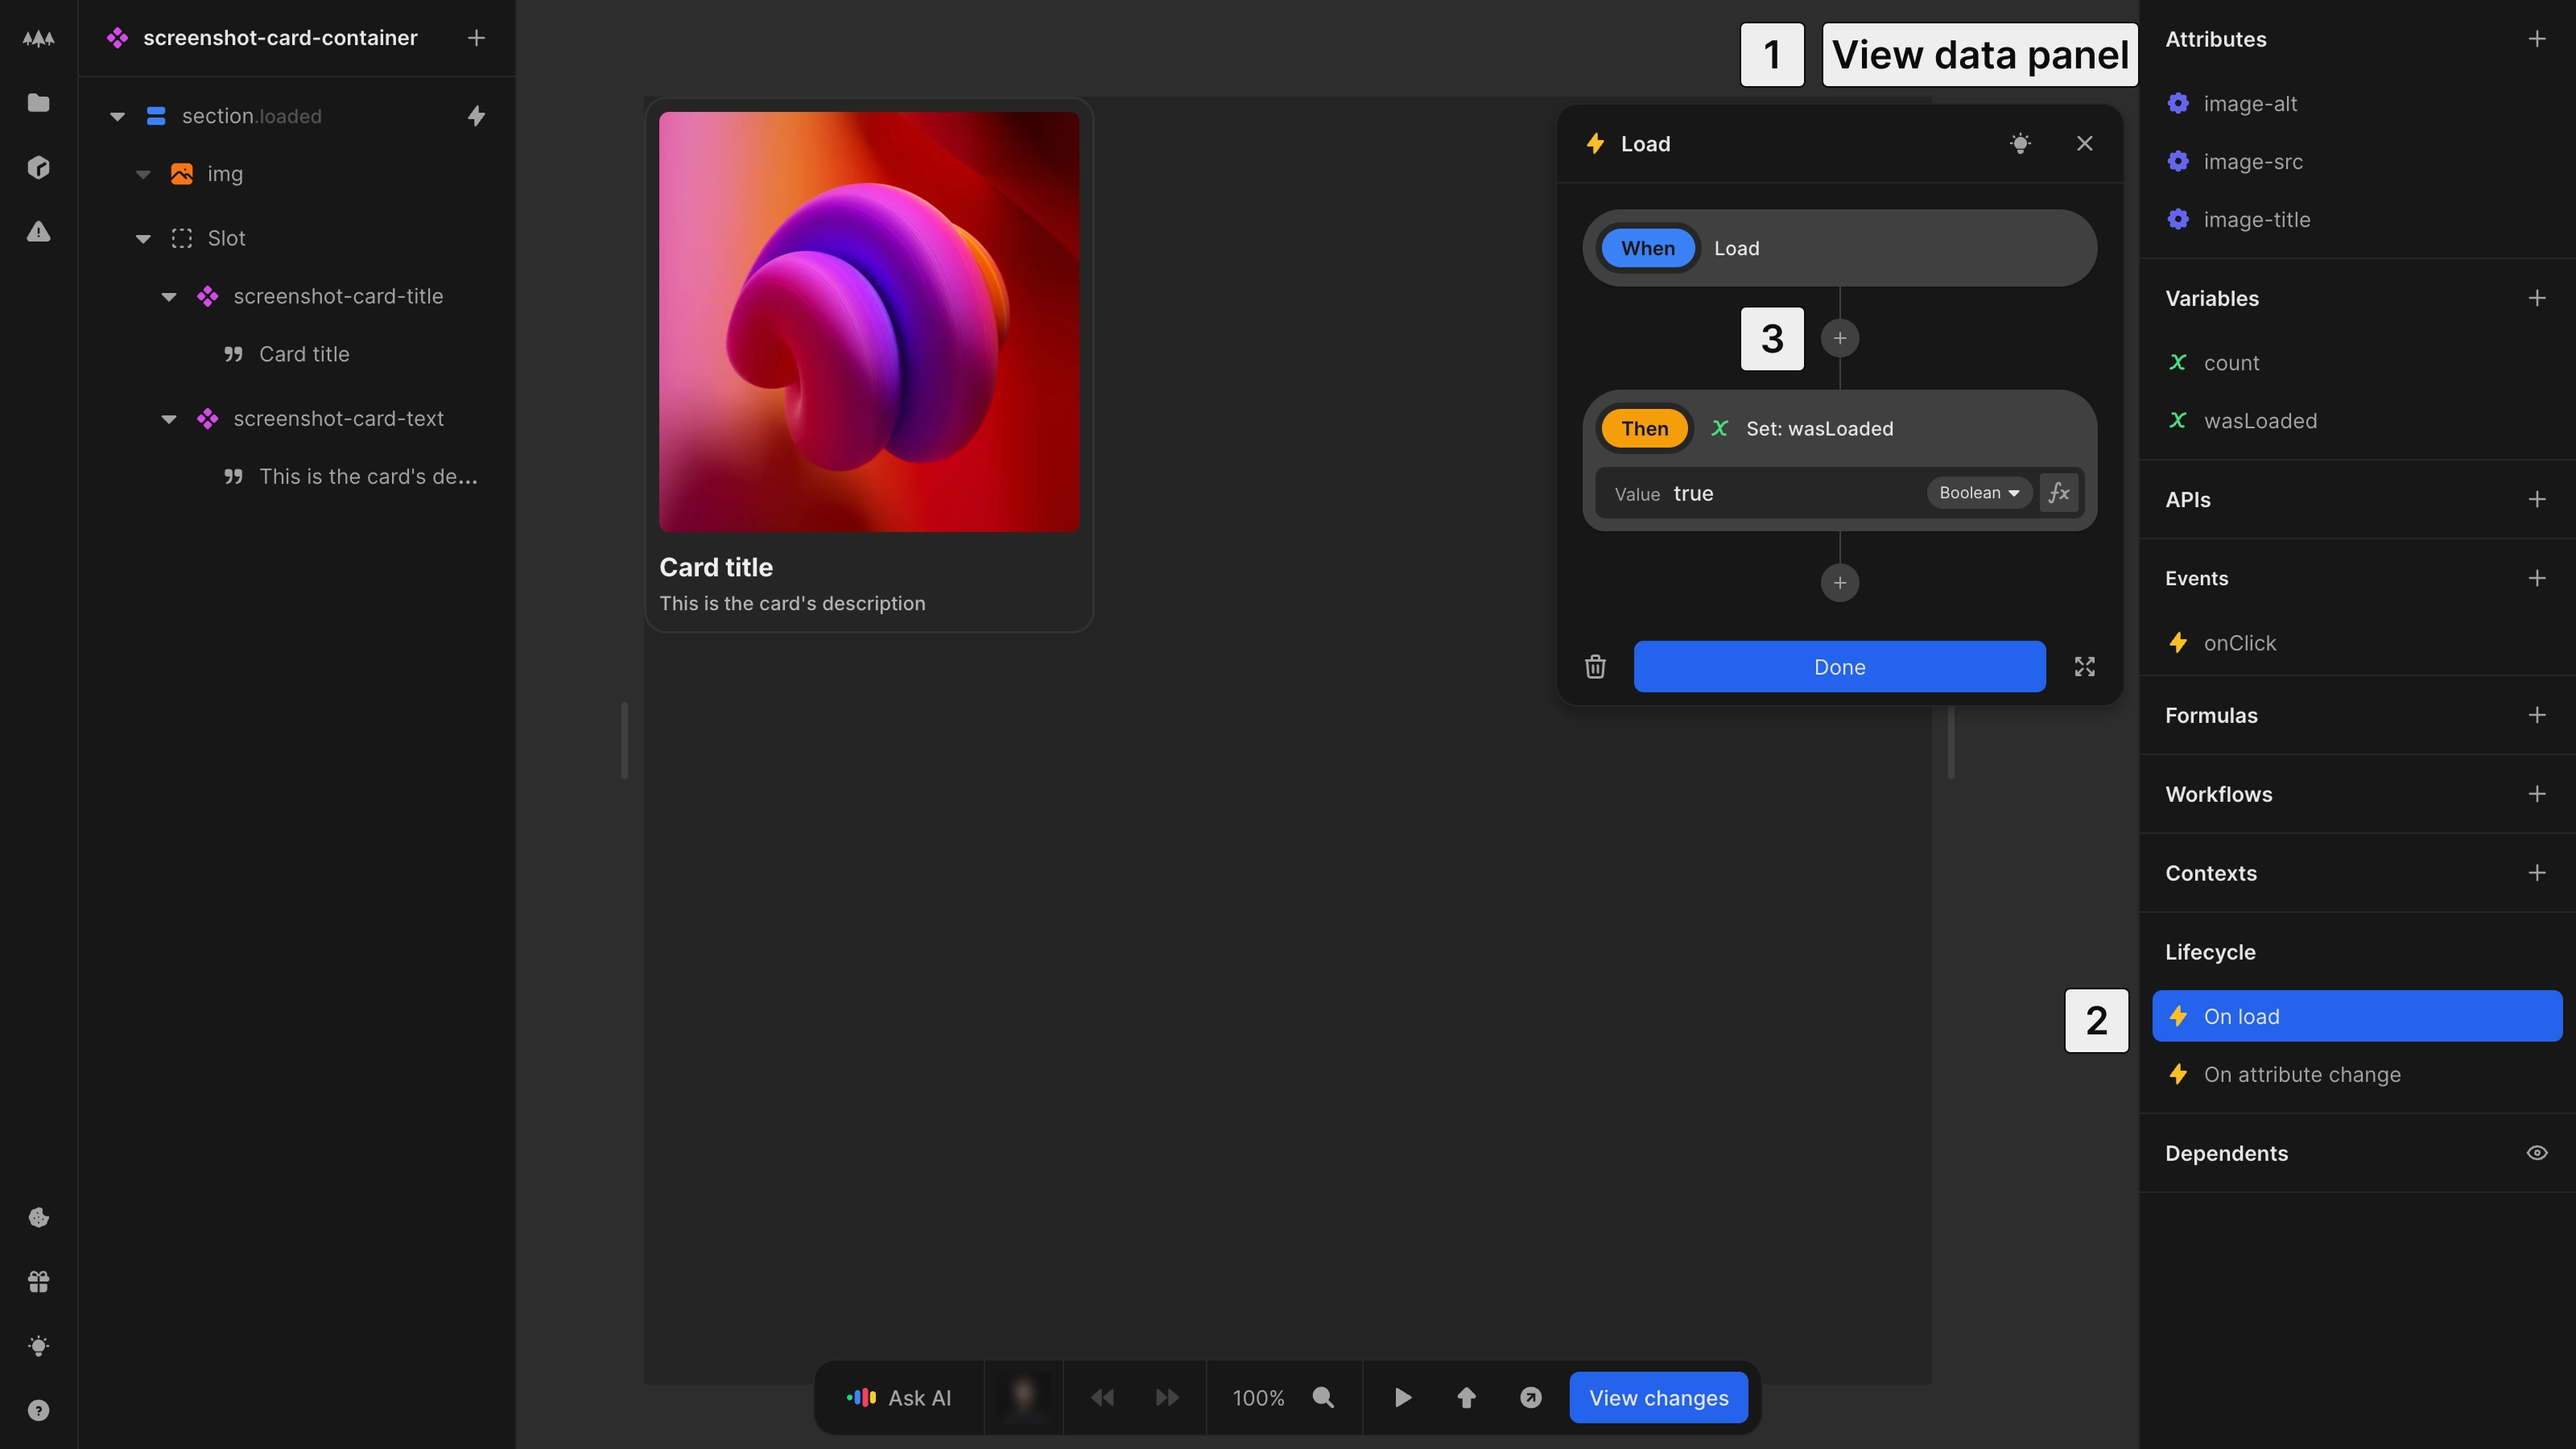
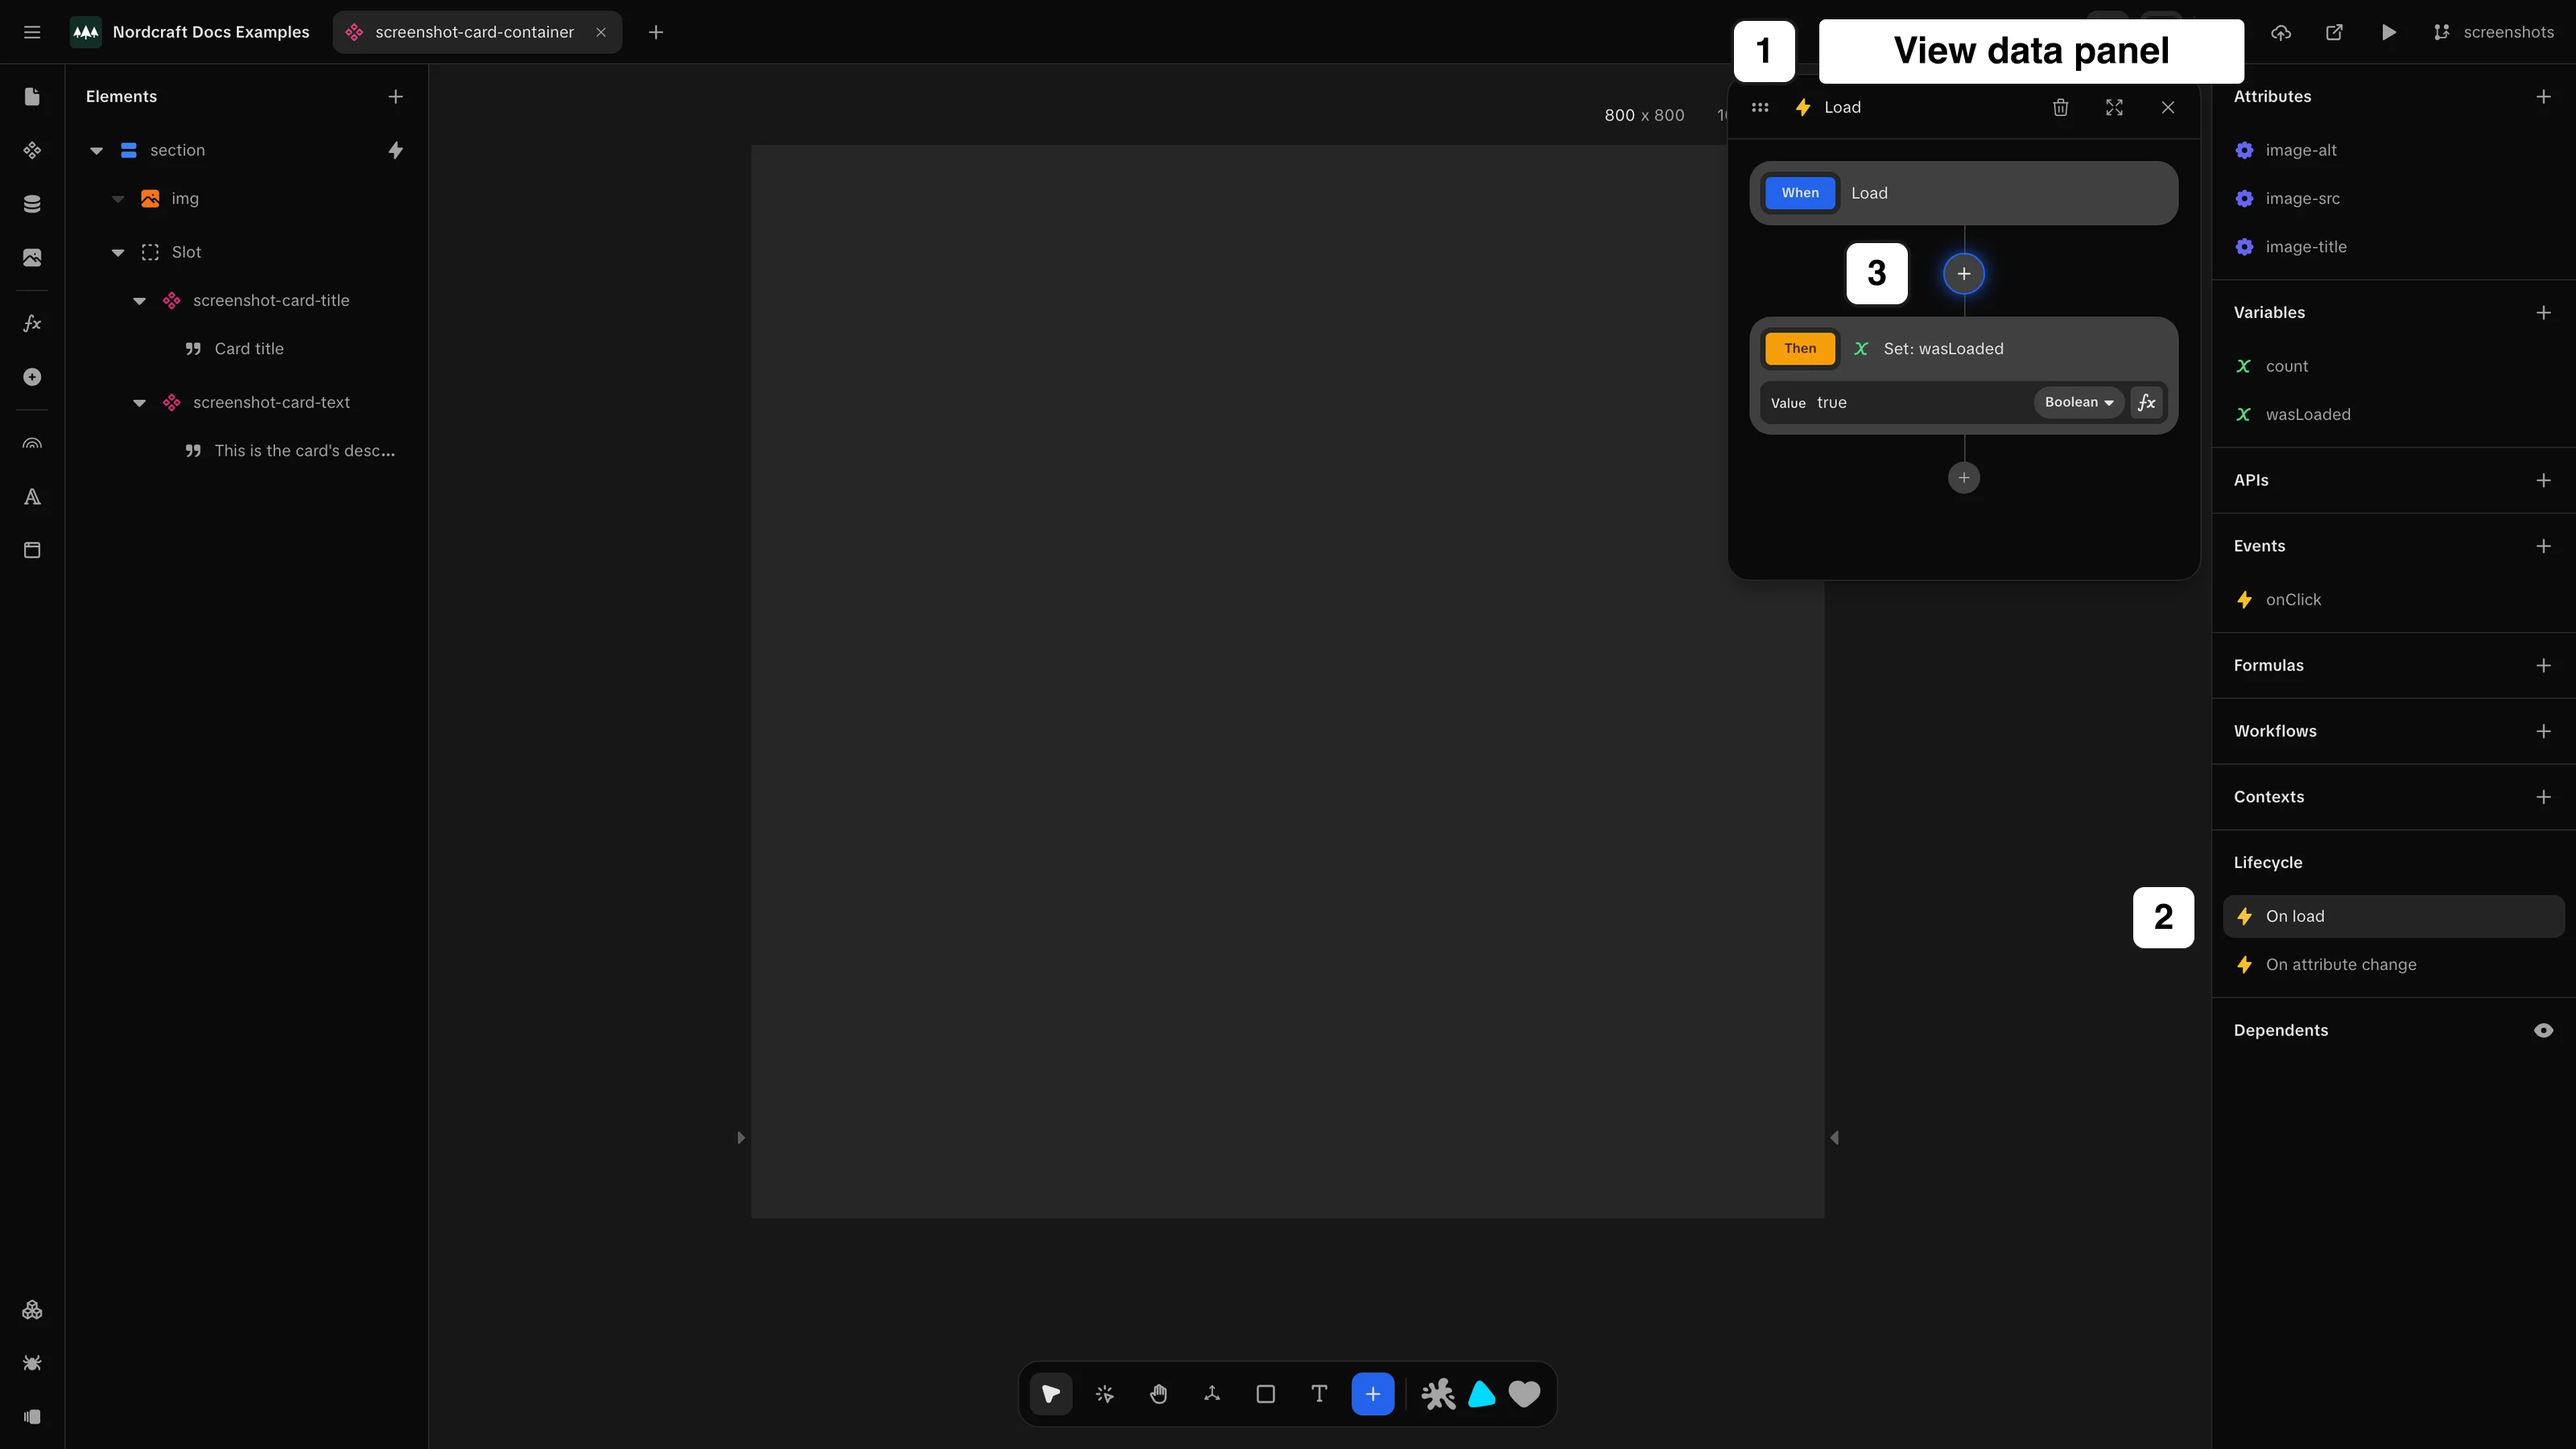
Adjustments

diff --git a/scripts/annotations.test.ts b/scripts/annotations.test.ts
@@ -1,0 +1,174 @@
+import { describe, expect, it } from 'bun:test'
+import {
+  type Annotation,
+  buildSvgOverlay,
+} from './annotations'
+
+describe('scripts/annotations.ts', () => {
+  it('should render an empty SVG when annotations array is empty', () => {
+    const svg = buildSvgOverlay([], 800, 450).toString()
+    expect(svg).toContain('<svg width="800" height="450" viewBox="0 0 800 450"')
+    expect(svg).not.toContain('<rect')
+    expect(svg).not.toContain('<text')
+  })
+
+  it('should render badge annotations with single and multi-character text', () => {
+    const annotations: Annotation[] = [
+      { type: 'badge', x: 100, y: 50, text: '1' },
+      { type: 'badge', x: 200, y: 150, text: '12' },
+    ]
+
+    const svg = buildSvgOverlay(annotations, 800, 450).toString()
+    expect(svg).toContain('<svg width="800" height="450"')
+    expect(svg).toContain('fill="#ffffff" stroke="#1a1a1a"')
+    expect(svg).toContain('>1<')
+    expect(svg).toContain('>12<')
+
+    // Single character badge width is 20, multi-character badge width is 24
+    expect(svg).toContain('width="20"')
+    expect(svg).toContain('width="24"')
+  })
+
+  it('should render selection, box, and highlight annotations with default and custom styling', () => {
+    const annotations: Annotation[] = [
+      {
+        type: 'box',
+        x: 24,
+        y: 84,
+        width: 104,
+        height: 64,
+        rx: 4,
+      },
+      {
+        type: 'highlight',
+        x: 50,
+        y: 100,
+        width: 200,
+        height: 80,
+        stroke: '#ff0000',
+        strokeWidth: 2,
+      },
+      {
+        type: 'selection',
+        x: 10,
+        y: 20,
+        width: 50,
+        height: 30,
+      },
+    ]
+
+    const svg = buildSvgOverlay(annotations, 800, 450).toString()
+    expect(svg).toContain('x="24"')
+    expect(svg).toContain('y="84"')
+    expect(svg).toContain('width="104"')
+    expect(svg).toContain('height="64"')
+    expect(svg).toContain('rx="4"')
+    expect(svg).toContain('fill="none"')
+    expect(svg).toContain('stroke="#ffffff"')
+
+    // Custom highlight stroke and strokeWidth
+    expect(svg).toContain('stroke="#ff0000"')
+    expect(svg).toContain('stroke-width="2"')
+
+    // Selection defaults
+    expect(svg).toContain('x="10"')
+    expect(svg).toContain('y="20"')
+    expect(svg).toContain('width="50"')
+    expect(svg).toContain('height="30"')
+  })
+
+  it('should scale box and highlight annotations proportionally for large resolutions (3200x1800)', () => {
+    const annotations: Annotation[] = [
+      {
+        type: 'box',
+        x: 24,
+        y: 84,
+        width: 104,
+        height: 64,
+      },
+      {
+        type: 'highlight',
+        x: 50,
+        y: 100,
+        width: 200,
+        height: 80,
+        stroke: '#00ff00',
+        strokeWidth: 2,
+      },
+    ]
+
+    const svgLarge = buildSvgOverlay(annotations, 3200, 1800).toString()
+    expect(svgLarge).toContain('x="96"')
+    expect(svgLarge).toContain('y="336"')
+    expect(svgLarge).toContain('width="416"')
+    expect(svgLarge).toContain('height="256"')
+    expect(svgLarge).toContain('stroke="#00ff00"')
+    expect(svgLarge).toContain('stroke-width="8"')
+  })
+
+  it('should render text and label annotations with automatic width calculation', () => {
+    const annotations: Annotation[] = [
+      {
+        type: 'text',
+        x: 24,
+        y: 152,
+        width: 188,
+        height: 20,
+        text: 'Placeholder content for the slot',
+      },
+      {
+        type: 'label',
+        x: 100,
+        y: 200,
+        text: 'Auto width label',
+        backgroundColor: '#000000',
+        color: '#ffffff',
+        fontWeight: 'normal',
+      },
+    ]
+
+    const svg = buildSvgOverlay(annotations, 800, 450).toString()
+    expect(svg).toContain('x="24"')
+    expect(svg).toContain('y="152"')
+    expect(svg).toContain('width="188"')
+    expect(svg).toContain('fill="#ffffff"')
+    expect(svg).toContain('Placeholder content for the slot')
+    expect(svg).toContain('text-anchor="middle"')
+
+    // Label with custom colors and auto-computed width
+    expect(svg).toContain('fill="#000000"')
+    expect(svg).toContain('fill="#ffffff"')
+    expect(svg).toContain('font-weight="normal"')
+    expect(svg).toContain('Auto width label')
+  })
+
+  it('should scale text annotations properly at 3200x1800', () => {
+    const annotations: Annotation[] = [
+      {
+        type: 'text',
+        x: 24,
+        y: 152,
+        width: 188,
+        height: 20,
+        text: 'Scaled text',
+      },
+    ]
+
+    const svgLarge = buildSvgOverlay(annotations, 3200, 1800).toString()
+    expect(svgLarge).toContain('x="96"')
+    expect(svgLarge).toContain('y="608"')
+    expect(svgLarge).toContain('width="752"')
+    expect(svgLarge).toContain('height="80"')
+    expect(svgLarge).toContain('font-size="46"')
+  })
+
+  it('should ignore unrecognized annotation types gracefully', () => {
+    const annotations = [
+      { type: 'unsupported-type', x: 0, y: 0 } as unknown as Annotation,
+    ]
+
+    const svg = buildSvgOverlay(annotations, 800, 450).toString()
+    expect(svg).toContain('<svg')
+    expect(svg).not.toContain('<rect')
+  })
+})

diff --git a/scripts/capture-screenshots.test.ts b/scripts/capture-screenshots.test.ts
@@ -1,87 +1,31 @@
 import { describe, expect, it } from 'bun:test'
-import { type Annotation, buildSvgOverlay } from './capture-screenshots'
+import {
+  defineScreenshot,
+  loadScreenshotTargets,
+  TARGETS,
+} from './capture-screenshots'
 
-describe('buildSvgOverlay', () => {
-  it('should render badge annotations', () => {
-    const annotations: Annotation[] = [
-      { type: 'badge', x: 100, y: 50, text: '1' },
-      { type: 'badge', x: 200, y: 150, text: '12' },
-    ]
-
-    const svg = buildSvgOverlay(annotations, 800, 450).toString()
-    expect(svg).toContain('<svg width="800" height="450"')
-    expect(svg).toContain('fill="#ffffff" stroke="#1a1a1a"')
-    expect(svg).toContain('>1<')
-    expect(svg).toContain('>12<')
+describe('scripts/capture-screenshots.ts', () => {
+  it('should define a screenshot configuration', () => {
+    const config = defineScreenshot({
+      path: '/test/path',
+      description: 'Test target',
+    })
+    expect(config.path).toBe('/test/path')
+    expect(config.description).toBe('Test target')
   })
 
-  it('should render selection/highlight box annotations', () => {
-    const annotations: Annotation[] = [
-      {
-        type: 'box',
-        x: 24,
-        y: 84,
-        width: 104,
-        height: 64,
-        rx: 4,
-      },
-      {
-        type: 'highlight',
-        x: 50,
-        y: 100,
-        width: 200,
-        height: 80,
-        stroke: '#ff0000',
-        strokeWidth: 2,
-      },
-    ]
+  it('should load screenshot targets from docs/', async () => {
+    const targets = await loadScreenshotTargets()
+    expect(targets.length).toBeGreaterThan(0)
 
-    const svg = buildSvgOverlay(annotations, 800, 450).toString()
-    expect(svg).toContain('x="24"')
-    expect(svg).toContain('y="84"')
-    expect(svg).toContain('width="104"')
-    expect(svg).toContain('height="64"')
-    expect(svg).toContain('rx="4"')
-    expect(svg).toContain('fill="none"')
-    expect(svg).toContain('stroke="#ffffff"')
-
-    // Scaled to 3200x1800
-    const svgLarge = buildSvgOverlay(annotations, 3200, 1800).toString()
-    expect(svgLarge).toContain('x="96"')
-    expect(svgLarge).toContain('y="336"')
-    expect(svgLarge).toContain('width="416"')
-    expect(svgLarge).toContain('height="256"')
-    expect(svgLarge).toContain('stroke="#ff0000"')
-    expect(svgLarge).toContain('stroke-width="8"')
+    const bottomBar = targets.find((t) => t.id === 'bottom-bar')
+    expect(bottomBar).toBeDefined()
+    expect(bottomBar?.outputDir).toBe('docs/the-editor/bottom-bar')
+    expect(bottomBar?.name).toBe('bottom-bar')
   })
 
-  it('should render text on white background annotations', () => {
-    const annotations: Annotation[] = [
-      {
-        type: 'text',
-        x: 24,
-        y: 152,
-        width: 188,
-        height: 20,
-        text: 'Placeholder content for the slot',
-      },
-    ]
-
-    const svg = buildSvgOverlay(annotations, 800, 450).toString()
-    expect(svg).toContain('x="24"')
-    expect(svg).toContain('y="152"')
-    expect(svg).toContain('width="188"')
-    expect(svg).toContain('height="20"')
-    expect(svg).toContain('fill="#ffffff"')
-    expect(svg).toContain('Placeholder content for the slot')
-    expect(svg).toContain('text-anchor="middle"')
-
-    // Scaled to 3200x1800
-    const svgLarge = buildSvgOverlay(annotations, 3200, 1800).toString()
-    expect(svgLarge).toContain('x="96"')
-    expect(svgLarge).toContain('y="608"')
-    expect(svgLarge).toContain('width="752"')
-    expect(svgLarge).toContain('height="80"')
-    expect(svgLarge).toContain('font-size="46"')
+  it('should export TARGETS array', () => {
+    expect(Array.isArray(TARGETS)).toBe(true)
   })
 })

diff --git a/scripts/capture-screenshots.ts b/scripts/capture-screenshots.ts
@@ -13,7 +13,7 @@ export interface ScreenshotConfig {
   id?: string
   name?: string
   outputDir?: string
-  path: string
+  path: `/${string}`
   description: string
   setup?: (page: Page) => Promise<void>
   annotations?: Annotation[]
@@ -40,6 +40,13 @@ export async function captureTarget(
   target: ScreenshotTarget,
   baseUrl: string = DEFAULT_BASE_URL,
 ) {
+  if (!target.path || target.path.startsWith('TODO')) {
+    console.log(
+      `\n⚠  Skipping [${target.id}]: path not configured yet (${target.description})`,
+    )
+    return
+  }
+
   console.log(`\n📸 Capturing [${target.id}]: ${target.description}`)
   const page = await browser.newPage({
     viewport: { width: 1920, height: 1080 },
@@ -98,6 +105,16 @@ export async function captureTarget(
 }
 
 async function runDirectTarget(target: ScreenshotTarget) {
+  if (!target.path || target.path.startsWith('TODO')) {
+    console.warn(
+      `\n⚠  Cannot capture [${target.id}]: path is not configured yet.`,
+    )
+    console.warn(
+      `   Please update 'path' in ${target.outputDir}/${target.name}.screenshot.ts`,
+    )
+    return
+  }
+
   console.log(`🚀 Starting direct screenshot capture`)
   console.log(`   Target: ${target.id} (${target.name})`)
   console.log(`   Destination: ${target.outputDir}`)

diff --git a/docs/components/interface-and-lifecycle/add-initialization-logic.screenshot.ts b/docs/components/interface-and-lifecycle/add-initialization-logic.screenshot.ts
@@ -1,0 +1,36 @@
+import { defineScreenshot } from '@/scripts/capture-screenshots'
+import type { Page } from 'playwright'
+
+export default defineScreenshot({
+  path: '/projects/docs_examples/branches/screenshots/components/screenshot-card-container?mode=design&canvas-tool=select&selection=onLoad&rightpanel=attributes',
+  description: 'Add initialization logic to a component',
+  setup: async (page: Page) => {
+    await page.waitForTimeout(500)
+  },
+  annotations: [
+    {
+      x: 538,
+      y: 6,
+      type: 'badge',
+      text: '1',
+    },
+    {
+      x: 565,
+      y: 6,
+      type: 'label',
+      text: 'View data panel',
+    },
+    {
+      x: 662,
+      y: 275,
+      type: 'badge',
+      text: '2',
+    },
+    {
+      x: 573,
+      y: 75,
+      type: 'badge',
+      text: '3',
+    },
+  ],
+})
